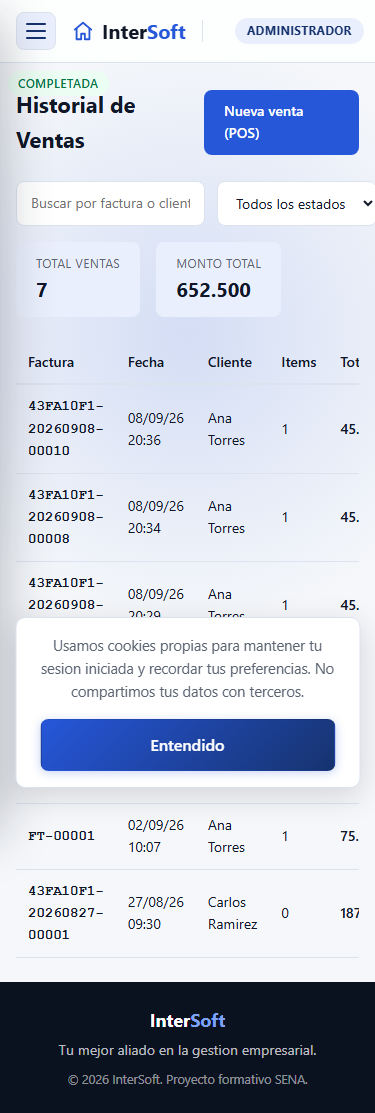
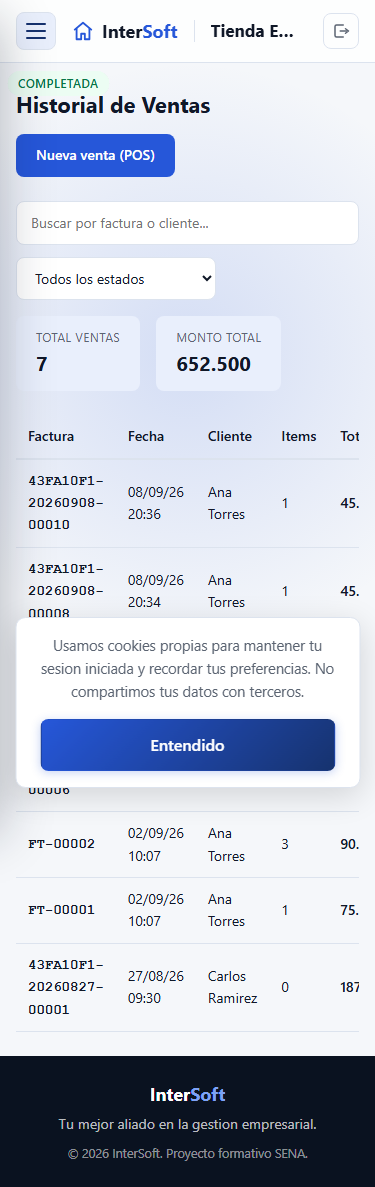
fix(ui): adaptacion movil del topbar (Salir fuera de pantalla), filtros de ventas y tabla de usuarios

diff --git a/frontend/src/app/features/ventas/ventas.component.ts b/frontend/src/app/features/ventas/ventas.component.ts
@@ -126,20 +126,20 @@ import { debounce } from '../../core/utils/temporizador.util';
   `,
   styles: [`
     .ventas { max-width: 1000px; margin: 0 auto; padding: var(--e5) var(--e4); }
-    .ventas-header { display: flex; justify-content: space-between; align-items: center; margin-bottom: var(--e5); }
+    .ventas-header { display: flex; justify-content: space-between; align-items: center; gap: var(--e3); flex-wrap: wrap; margin-bottom: var(--e5); }
     .ventas-header h1 { margin: 0; font-size: clamp(22px, 4vw, 28px); }
     .btn-primary {
       padding: 10px 20px; background: var(--primario); color: #fff;
       border: 0; border-radius: 8px; text-decoration: none; font-weight: 600; font-size: 14px;
     }
 
-    .filtros { display: flex; gap: var(--e3); margin-bottom: var(--e4); }
+    .filtros { display: flex; flex-wrap: wrap; gap: var(--e3); margin-bottom: var(--e4); }
     .input {
       padding: 10px 14px; border: 1px solid var(--linea); border-radius: 8px;
-      font: inherit; font-size: 14px; background: #fff;
+      font: inherit; font-size: 14px; background: #fff; flex: 1 1 180px; min-width: 0;
     }
     .input:focus { outline: none; border-color: var(--primario); }
-    .input-estado { max-width: 200px; }
+    .input-estado { flex: 0 1 200px; min-width: 0; }
 
     .stats { display: flex; gap: var(--e4); margin-bottom: var(--e5); }
     .stat { background: var(--primario-suave); padding: 12px 20px; border-radius: 8px; }

diff --git a/frontend/src/app/shared/layout/topbar/topbar.component.css b/frontend/src/app/shared/layout/topbar/topbar.component.css
@@ -71,6 +71,7 @@
   white-space: nowrap;
   overflow: hidden;
   text-overflow: ellipsis;
+  min-width: 0;
 }
 
 .usuario-bloque {
@@ -78,6 +79,7 @@
   align-items: center;
   gap: var(--e3);
   margin-left: auto;
+  flex-shrink: 0;
 }
 .usuario-info {
   display: flex;
@@ -123,5 +125,7 @@
 
 @media (max-width: 640px) {
   .usuario-nombre { display: none; }
-  .empresa { max-width: 38vw; }
+  .pill-rol { display: none; }
+  .empresa { max-width: 30vw; }
+  .marca { font-size: 18px; }
 }

diff --git a/frontend/src/app/features/administracion/usuarios/usuarios.component.css b/frontend/src/app/features/administracion/usuarios/usuarios.component.css
@@ -25,7 +25,7 @@ p.gris { margin-top: var(--e1); }
   margin-top: var(--e2);
 }
 
-.sin-relleno { padding: 0; overflow: hidden; }
+.sin-relleno { padding: 0; overflow-x: auto; }
 
 .tabla { width: 100%; border-collapse: collapse; font-size: 14.5px; }
 .tabla th {
